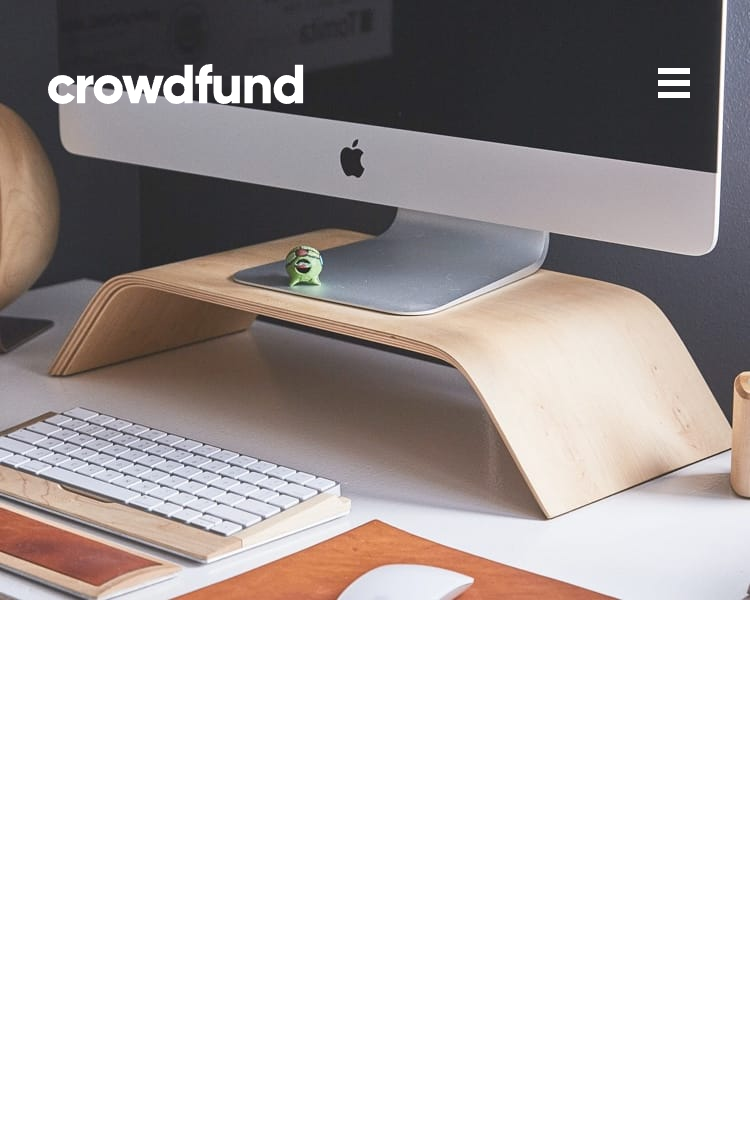
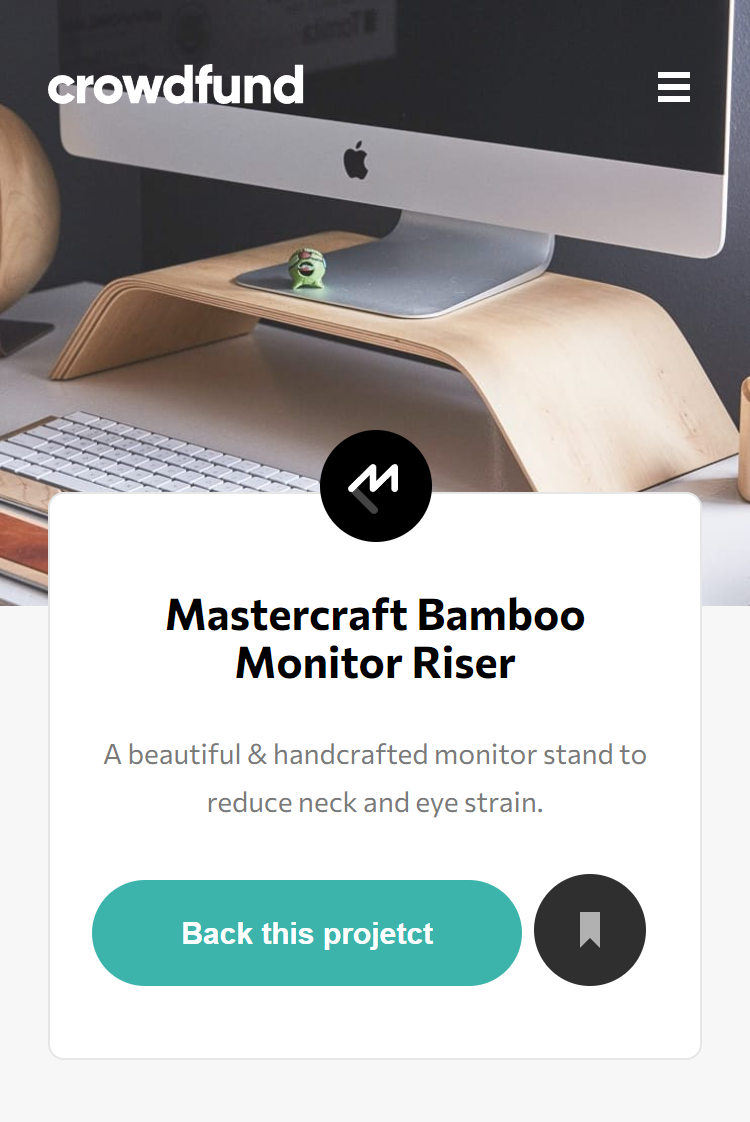
Docs readme update

diff --git a/README.md b/README.md
@@ -40,7 +40,7 @@ Os usuários devem ser capazes de:
 
 - [x] Preparativos do layout com mobile-first 
 - [x] Navbar
-- [ ] Product section
+- [x] Product section
 - [ ] Metrics section
 - [ ] About section
 - [ ] Navbar menu
